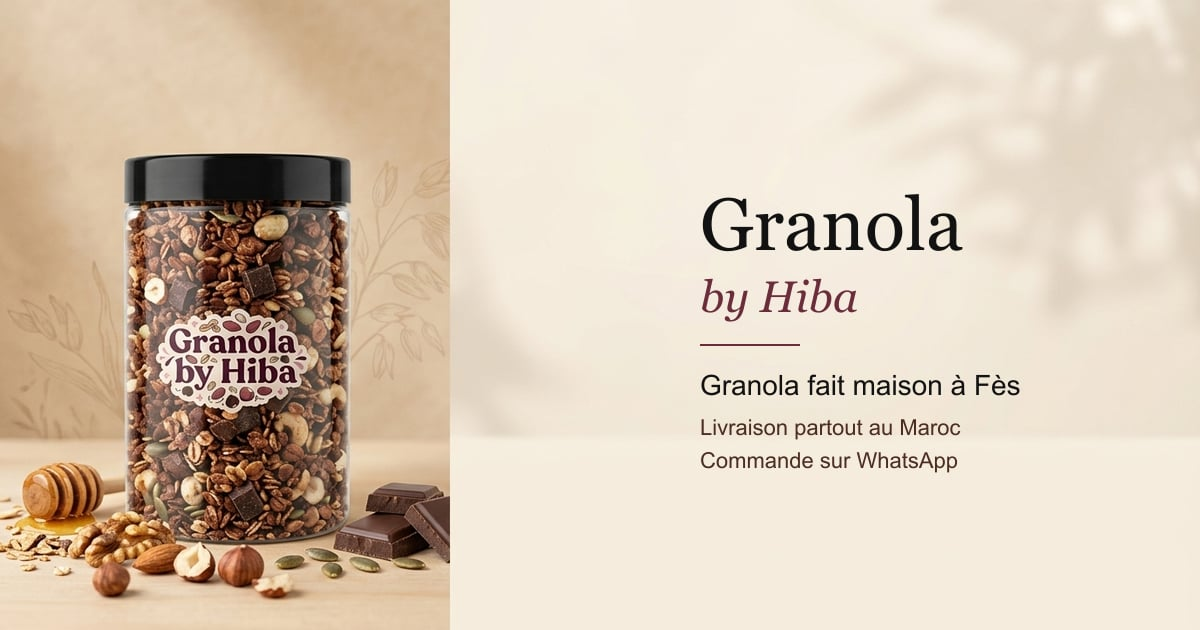
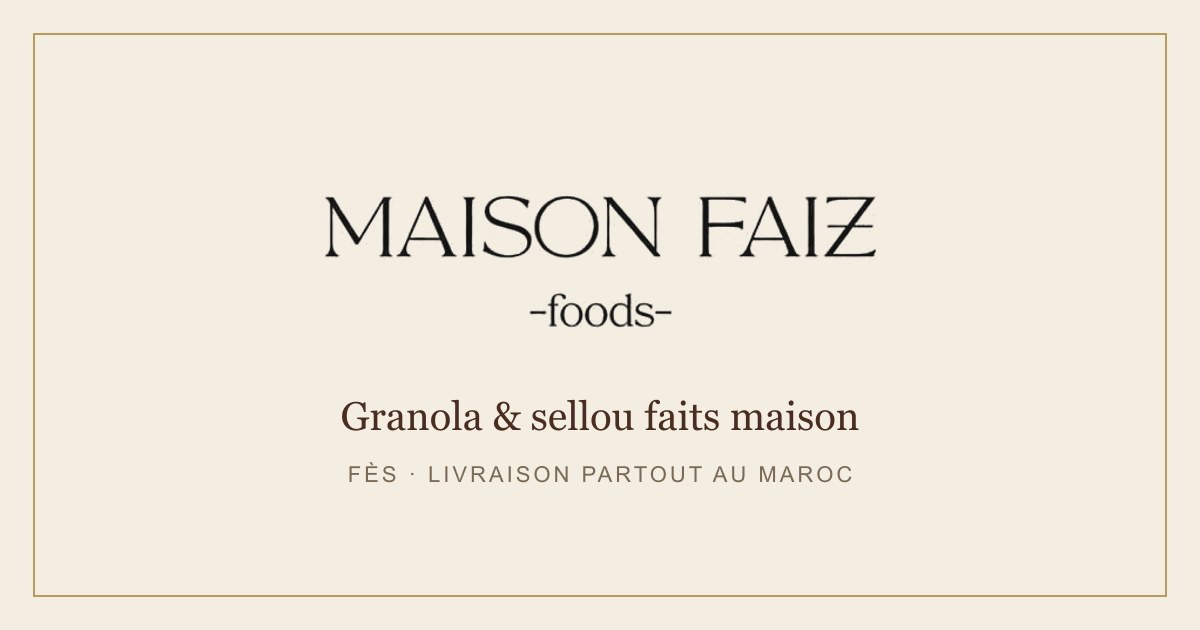
Nouvelle marque : Maison Faiz foods
- Logo « MAISON FAIZ -foods- » (PNG transparent) dans l'en-tête, le pied de page et l'admin
- Étiquettes produits ajoutées en 2e photo (Classic, Chocolat Noir, Ferrero Rocher, Sellou)
- Nom de la marque mis à jour partout (titres, SEO, aperçu WhatsApp, favicon, README)
- Granola Chocolat renommé Granola Chocolat Noir, comme sur son étiquette

diff --git a/src/admin/AdminApp.jsx b/src/admin/AdminApp.jsx
@@ -31,10 +31,9 @@ const NAV = [
 function Brand() {
   return (
     <div className="flex items-center gap-3">
-      <span className="flex h-9 w-9 items-center justify-center rounded-lg bg-bordeaux font-serif text-[18px] text-white">G</span>
       <span className="leading-tight">
-        <span className="block font-serif text-[17px] text-ink">Granola by Hiba</span>
-        <span className="block text-[11px] uppercase tracking-[1.5px] text-muted">Administration</span>
+        <img src="/images/brand/logo.png" alt="Maison Faiz foods" className="h-[34px] w-auto" />
+        <span className="mt-1 block text-[11px] uppercase tracking-[1.5px] text-muted">Administration</span>
       </span>
     </div>
   )
@@ -137,7 +136,7 @@ export default function AdminApp() {
   }, [isAdmin, pathname])
 
   useEffect(() => {
-    document.title = 'Admin · Granola by Hiba'
+    document.title = 'Admin · Maison Faiz'
     setMenu(false)
   }, [pathname])
 
@@ -162,7 +161,7 @@ export default function AdminApp() {
     <div className="admin min-h-screen md:flex">
       <header className="sticky top-0 z-30 flex h-14 items-center justify-between border-b border-line bg-white px-4 md:hidden">
         <button onClick={() => setMenu(true)} aria-label="Menu" className="-ml-2 p-2"><MenuIcon /></button>
-        <span className="font-serif text-[17px] text-ink">Granola by Hiba</span>
+        <img src="/images/brand/logo.png" alt="Maison Faiz foods" className="h-[26px] w-auto" />
         <span className="w-8" />
       </header>
       {menu && (

diff --git a/src/components/Art.jsx b/src/components/Art.jsx
@@ -53,7 +53,7 @@ export function BagArt({ name = 'Granola', seed = name, choco }) {
       <path d={ZIGZAG} fill="#B88F5E" />
       <rect x="140" y="146" width="120" height="90" fill="#FBF7F1" />
       <text x="200" y="178" textAnchor="middle" fontFamily="Cardo, serif" fontSize="16" fill="#6B2D3C">Granola</text>
-      <text x="200" y="195" textAnchor="middle" fontFamily="Cardo, serif" fontSize="11" fontStyle="italic" fill="#6B2D3C">by Hiba</text>
+      <text x="200" y="195" textAnchor="middle" fontFamily="Cardo, serif" fontSize="11" fontStyle="italic" fill="#6B2D3C">Maison Faiz</text>
       <line x1="170" y1="206" x2="230" y2="206" stroke="#6B2D3C" strokeWidth=".8" />
       <text x="200" y="223" textAnchor="middle" fontFamily="Archivo, sans-serif" fontSize="9" letterSpacing="1.5" fill="#4A2C20">
         {shortName(name)}
@@ -80,7 +80,7 @@ export function JarArt({ name = 'Granola', seed = name, choco }) {
       </g>
       <rect x="150" y="200" width="100" height="60" fill="#FBF7F1" />
       <text x="200" y="226" textAnchor="middle" fontFamily="Cardo, serif" fontSize="14" fill="#6B2D3C">Granola</text>
-      <text x="200" y="243" textAnchor="middle" fontFamily="Cardo, serif" fontSize="10" fontStyle="italic" fill="#6B2D3C">by Hiba</text>
+      <text x="200" y="243" textAnchor="middle" fontFamily="Cardo, serif" fontSize="10" fontStyle="italic" fill="#6B2D3C">Maison Faiz</text>
       <path d="M134 130 Q130 230 136 330" stroke="rgba(255,255,255,.7)" strokeWidth="6" fill="none" strokeLinecap="round" />
     </svg>
   )

diff --git a/index.html b/index.html
@@ -5,14 +5,14 @@
     <meta name="viewport" content="width=device-width, initial-scale=1.0, viewport-fit=cover" />
     <meta name="theme-color" content="#6B2D3C" />
     <link rel="icon" type="image/svg+xml" href="/favicon.svg" />
-    <title>Granola by Hiba — Granola fait maison à Fès</title>
+    <title>Maison Faiz foods — Granola et sellou faits maison à Fès</title>
     <meta name="description" content="Granola fait maison préparé avec amour à Fès : Classic, Chocolat, Ferrero Rocher, Lite et Sellou. Livraison partout au Maroc, commande sur WhatsApp." />
 
     <!-- Open Graph : lu par WhatsApp / Instagram / Facebook (qui n'exécutent pas le JavaScript) -->
     <meta property="og:type" content="website" />
-    <meta property="og:site_name" content="Granola by Hiba" />
+    <meta property="og:site_name" content="Maison Faiz foods" />
     <meta property="og:locale" content="fr_MA" />
-    <meta property="og:title" content="Granola by Hiba — Granola fait maison à Fès 🍯🍫" />
+    <meta property="og:title" content="Maison Faiz foods — Granola et sellou faits maison à Fès" />
     <meta property="og:description" content="Granola fait maison, préparé avec amour à Fès. Livraison partout au Maroc 🇲🇦 — commande sur WhatsApp." />
     <meta property="og:image" content="%VITE_SITE_URL%/og-image.jpg" />
     <meta property="og:url" content="%VITE_SITE_URL%/" />

diff --git a/src/pages/Home.jsx b/src/pages/Home.jsx
@@ -63,7 +63,7 @@ function Hero() {
       <section className="relative overflow-hidden bg-creme-light md:h-[78vh] md:min-h-[540px]">
         <div className="relative h-[50vh] min-h-[300px] md:absolute md:inset-0 md:h-full">
           {images.map((src, k) => (
-            <img key={src} src={src} alt="Granola by Hiba" fetchPriority={k === 0 ? 'high' : 'auto'} loading={k === 0 ? 'eager' : 'lazy'}
+            <img key={src} src={src} alt="Maison Faiz foods" fetchPriority={k === 0 ? 'high' : 'auto'} loading={k === 0 ? 'eager' : 'lazy'}
               className={`absolute inset-0 h-full w-full object-cover object-left transition-opacity duration-1000 ${k === i ? 'opacity-100' : 'opacity-0'}`} />
           ))}
         </div>
@@ -168,7 +168,7 @@ function About() {
   return (
     <section className="section bg-creme-light">
       <div className="container-site">
-        <ImageWithText image={s.about_image || '/images/site/commandes-pretes.jpg'} imageAlt="Granola by Hiba" reverse>
+        <ImageWithText image={s.about_image || '/images/site/commandes-pretes.jpg'} imageAlt="Maison Faiz foods" reverse>
           <p className="eyebrow">Notre histoire</p>
           <h2 className="h2 mt-2">{s.about_title || 'Qui suis-je ?'}</h2>
           <p className="mt-4 whitespace-pre-line">{s.about_text}</p>

diff --git a/src/components/Layout.jsx b/src/components/Layout.jsx
@@ -42,9 +42,8 @@ function AnnouncementBar() {
 
 function Logo({ className = '' }) {
   return (
-    <Link to="/" className={`font-serif leading-none text-ink ${className}`} aria-label="Granola by Hiba — accueil">
-      <span className="text-[22px] md:text-[24px]">Granola</span>{' '}
-      <span className="text-[15px] italic text-bordeaux">by Hiba</span>
+    <Link to="/" className={`block shrink-0 ${className}`} aria-label="Maison Faiz foods — accueil">
+      <img src="/images/brand/logo.png" alt="Maison Faiz foods" width="477" height="121" className="h-[36px] w-auto md:h-[44px]" />
     </Link>
   )
 }
@@ -191,7 +190,7 @@ function Footer() {
         </div>
       </div>
       <div className="border-t border-line py-5 text-center text-xs text-muted">
-        © {new Date().getFullYear()} Granola by Hiba · Fait maison à {s.city || 'Fès'}
+        © {new Date().getFullYear()} Maison Faiz foods · Fait maison à {s.city || 'Fès'}
       </div>
     </footer>
   )

diff --git a/src/admin/Orders.jsx b/src/admin/Orders.jsx
@@ -108,7 +108,7 @@ export default function Orders() {
                       <h3 className="font-sans text-[12px] uppercase tracking-widest text-muted">Client</h3>
                       <p className="text-ink">{o.customer_name}<br />{o.phone}<br />{o.address}, {o.city}</p>
                       {o.note && <p className="bg-creme p-3">💬 {o.note}</p>}
-                      <a href={waLink(intlPhone(o.phone), `Salam ${o.customer_name} 👋 C'est Hiba de Granola by Hiba, concernant votre commande n°${o.number} : `)}
+                      <a href={waLink(intlPhone(o.phone), `Salam ${o.customer_name} 👋 C'est Hiba de Maison Faiz, concernant votre commande n°${o.number} : `)}
                         target="_blank" rel="noreferrer" className="btn btn-whatsapp min-h-[42px] w-full">
                         <WhatsAppIcon width={18} height={18} /> Écrire au client
                       </a>

diff --git a/src/components/Seo.jsx b/src/components/Seo.jsx
@@ -1,6 +1,6 @@
 import { useEffect } from 'react'
 
-const SITE = 'Granola by Hiba'
+const SITE = 'Maison Faiz foods'
 
 function setMeta(attr, key, content) {
   if (!content) return
@@ -16,7 +16,7 @@ function setMeta(attr, key, content) {
 /** Titre, description et Open Graph de la page courante. */
 export default function Seo({ title, description, image }) {
   useEffect(() => {
-    const full = title ? `${title} · ${SITE}` : `${SITE} — Granola fait maison à Fès`
+    const full = title ? `${title} · ${SITE}` : `${SITE} — Granola et sellou faits maison à Fès`
     document.title = full
     setMeta('name', 'description', description)
     setMeta('property', 'og:title', full)

diff --git a/src/pages/Product.jsx b/src/pages/Product.jsx
@@ -98,7 +98,7 @@ function Product({ slug }) {
         </div>
 
         <div className="md:max-w-[480px]">
-          <p className="eyebrow">Granola by Hiba</p>
+          <p className="eyebrow">Maison Faiz foods</p>
           <h1 className="mt-2 text-[34px] leading-[1.15] md:text-[44px]">{product.name}</h1>
           {badges.length > 0 && <div className="mt-3 flex flex-wrap gap-1.5">{badges.map((b) => <Badge key={b} kind={b} />)}</div>}
 

diff --git a/README.md b/README.md
@@ -1,6 +1,6 @@
-# Granola by Hiba — site e-commerce
+# Maison Faiz foods — site e-commerce
 
-Site vitrine + panier + commande WhatsApp pour **Granola by Hiba** (Fès), avec un espace d'administration sur `/admin`.
+Site vitrine + panier + commande WhatsApp pour **Maison Faiz foods** (Fès), la marque de granola et sellou de Hiba, avec un espace d'administration sur `/admin`.
 
 - **Front** : React 19 + Vite + Tailwind CSS v4, mobile-first.
 - **Back** : Supabase (Postgres + Auth + Storage). Les prix, promos et codes promo sont **calculés côté serveur** (fonctions SQL `quote_cart` / `place_order`) ; le navigateur ne fait qu'afficher.
